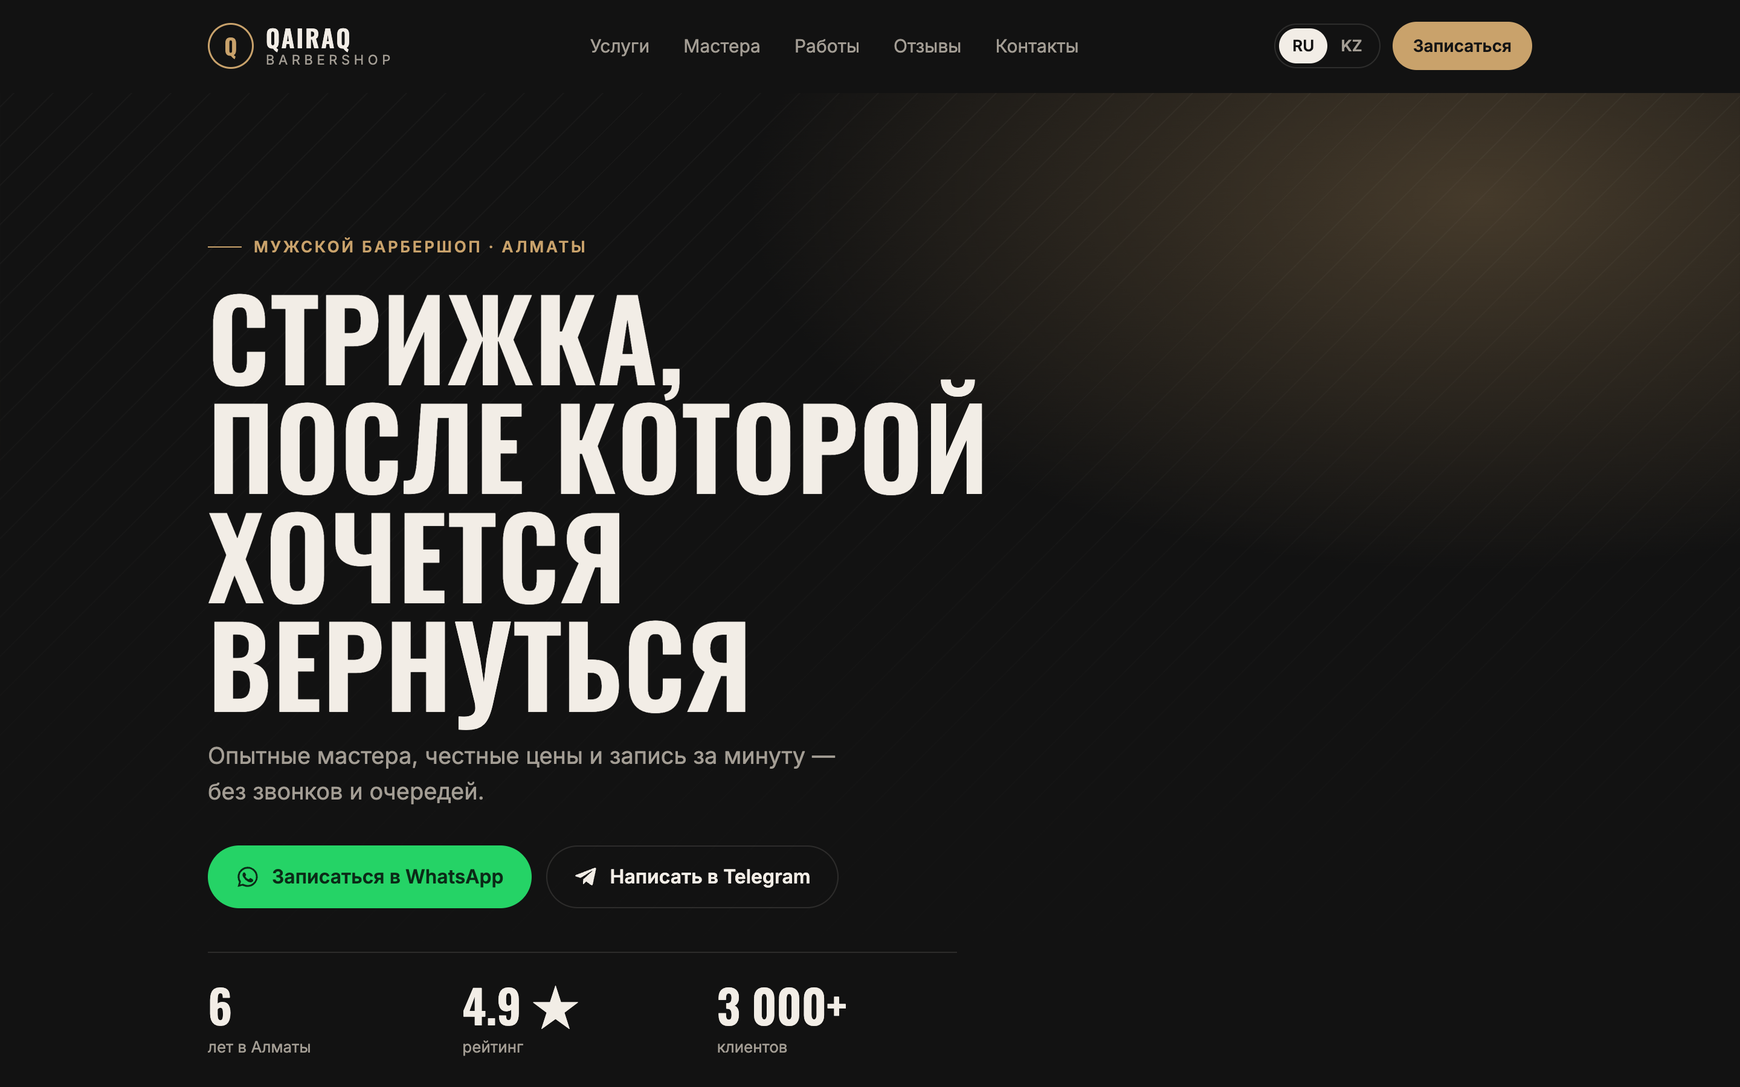
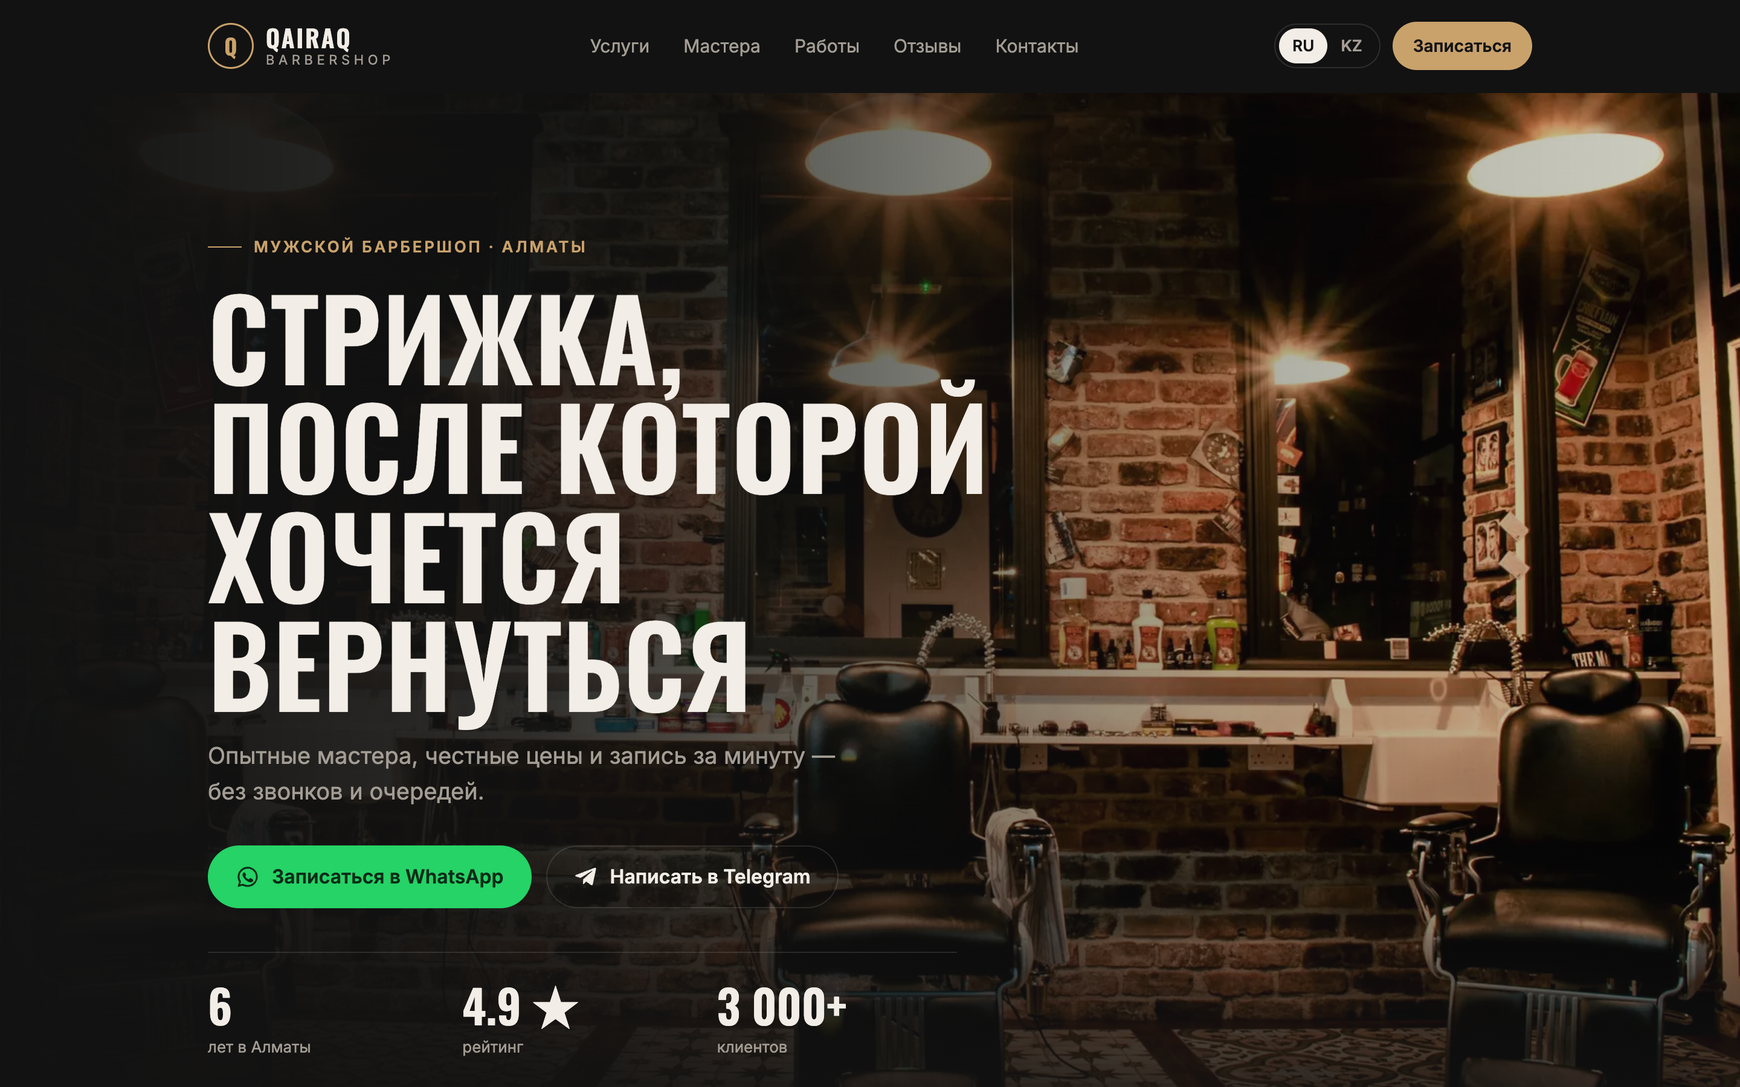
Real photos, fictional address, faster hero
- 10 photos from Unsplash/Pexels (free licenses), cropped, toned, WebP; sources in img/CREDITS.md
- RU/KZ alt text for every photo
- Hero background with desktop/mobile versions, preloaded, readability gradient
- Fictional address: ul. Zenkova 125 (street exists, house does not)
- Updated screenshots and README

Changed region(s): [[0.25, 0.0622, 1.0, 1.0], [0.4688, 0.9022, 0.5, 0.9333], [0.25, 0.3111, 0.2812, 0.3422]]

diff --git a/js/config.js b/js/config.js
@@ -10,7 +10,10 @@ window.SITE = {
     tagline: "barbershop",     // подпись под названием
     city: { ru: "Алматы", kk: "Алматы" },
     logoLetter: "Q",           // буква в круглом логотипе
-    heroPhoto: ""              // фон первого экрана, например "img/hero.jpg". Пусто — фирменный градиент
+    // Фон первого экрана: для ПК (~1920×1080) и для телефона (~800×1000).
+    // Пусто — фирменный градиент без фото.
+    heroPhoto: "img/hero.webp",
+    heroPhotoMobile: "img/hero-mobile.webp"
   },
 
   /* ---------- Цвета (любые CSS-цвета) ---------- */
@@ -30,12 +33,13 @@ window.SITE = {
     whatsapp: "77000000000",            // номер для wa.me, только цифры
     telegram: "qairaq_barber",          // username без @
     instagram: "qairaq.barber",         // username без @
-    address: { ru: "ул. Панфилова, 98", kk: "Панфилов к-сі, 98" },
+    // Адрес вымышленный: улица Зенкова существует, дома 125 на ней нет (проверено в 2ГИС)
+    address: { ru: "ул. Зенкова, 125", kk: "Зенков к-сі, 125" },
     district: { ru: "Медеуский район, вход со двора", kk: "Медеу ауданы, кіреберіс аулада" },
-    // Карта: поиск по адресу, ключ API не нужен
-    mapQuery: "Алматы, улица Панфилова 98",
+    // Карта: поиск по адресу, ключ API не нужен. Для вымышленного адреса — только улица
+    mapQuery: "улица Зенкова, Алматы",
     // Ссылка «Открыть в 2ГИС» (замените на карточку клиента в 2ГИС)
-    twoGisUrl: "https://2gis.kz/almaty/search/Панфилова%2098",
+    twoGisUrl: "https://2gis.kz/almaty/search/улица%20Зенкова",
     // Часы работы для индикатора «Открыто сейчас» (время Алматы)
     open: "10:00",
     close: "22:00"
@@ -75,26 +79,37 @@ window.SITE = {
     { name: { ru: "Арман", kk: "Арман" },
       role: { ru: "Топ-барбер · 8 лет опыта", kk: "Топ-барбер · 8 жыл тәжірибе" },
       skills: { ru: "Классика, фейды, бороды", kk: "Классика, фейд, сақал" },
-      photo: "" },
+      photo: "img/master-arman.webp",
+      alt: { ru: "Барбер Арман в рабочем фартуке", kk: "Барбер Арман жұмыс алжапқышында" } },
     { name: { ru: "Данияр", kk: "Данияр" },
       role: { ru: "Барбер · 5 лет опыта", kk: "Барбер · 5 жыл тәжірибе" },
       skills: { ru: "Текстурные стрижки, кроп", kk: "Текстуралы қию, кроп" },
-      photo: "" },
+      photo: "img/master-daniyar.webp",
+      alt: { ru: "Портрет барбера Данияра", kk: "Барбер Даниярдың портреті" } },
     { name: { ru: "Тимур", kk: "Тимур" },
       role: { ru: "Барбер · 3 года опыта", kk: "Барбер · 3 жыл тәжірибе" },
       skills: { ru: "Детские стрижки, машинка", kk: "Балалар шаш қиюы, машинка" },
-      photo: "" }
+      photo: "img/master-timur.webp",
+      alt: { ru: "Барбер Тимур с опасной бритвой", kk: "Барбер Тимур ұстара ұстап тұр" } }
   ],
 
   /* ---------- Галерея работ ----------
-     photo: путь к фото. Пусто — будет заглушка с подписью. */
+     photo: путь к фото. Пусто — будет заглушка с подписью.
+     На ПК 1-е фото — большой квадрат, 4-е и 5-е — высокие (вертикальные),
+     6-е — широкое (горизонтальное). На телефоне все ячейки квадратные. */
   gallery: [
-    { label: { ru: "Скин-фейд", kk: "Скин-фейд" }, photo: "" },
-    { label: { ru: "Кроп с текстурой", kk: "Текстуралы кроп" }, photo: "" },
-    { label: { ru: "Борода", kk: "Сақал" }, photo: "" },
-    { label: { ru: "Классика", kk: "Классика" }, photo: "" },
-    { label: { ru: "Детская", kk: "Балалар" }, photo: "" },
-    { label: { ru: "Комплекс", kk: "Кешен" }, photo: "" }
+    { label: { ru: "Скин-фейд", kk: "Скин-фейд" }, photo: "img/work-fade.webp",
+      alt: { ru: "Барбер делает фейд машинкой", kk: "Барбер машинкамен фейд жасап жатыр" } },
+    { label: { ru: "Кроп с текстурой", kk: "Текстуралы кроп" }, photo: "img/work-crop.webp",
+      alt: { ru: "Парень с текстурным кропом и фейдом", kk: "Текстуралы кроп пен фейд қиған жігіт" } },
+    { label: { ru: "Борода", kk: "Сақал" }, photo: "img/work-beard.webp",
+      alt: { ru: "Барбер подравнивает бороду ножницами", kk: "Барбер сақалды қайшымен түзетіп жатыр" } },
+    { label: { ru: "Классика", kk: "Классика" }, photo: "img/work-classic.webp",
+      alt: { ru: "Классическая мужская стрижка с пробором", kk: "Жарылымы бар классикалық ерлер шаш қиюы" } },
+    { label: { ru: "Детская", kk: "Балалар" }, photo: "img/work-kids.webp",
+      alt: { ru: "Мальчик со свежей стрижкой с рисунком", kk: "Суретті жаңа шаш қиюы бар бала" } },
+    { label: { ru: "Комплекс", kk: "Кешен" }, photo: "img/work-combo.webp",
+      alt: { ru: "Барбер оформляет бороду клиенту после стрижки", kk: "Барбер шаш қиғаннан кейін сақалды түзетіп жатыр" } }
   ],
 
   /* ---------- Отзывы ---------- */

diff --git a/css/style.css b/css/style.css
@@ -101,8 +101,21 @@ p { margin: 0; }
   mask-image: linear-gradient(to bottom, #000, transparent 85%);
   -webkit-mask-image: linear-gradient(to bottom, #000, transparent 85%);
 }
-.hero__bg.has-photo { background-size: cover; background-position: center; }
-.hero__bg.has-photo::after { background: linear-gradient(to bottom, color-mix(in srgb, var(--bg) 55%, transparent), var(--bg)); mask-image: none; -webkit-mask-image: none; }
+/* Фон-фото (подключается из config.js) + затемнение, чтобы текст читался */
+.has-hero .hero__bg { background: var(--hero-m) center / cover no-repeat, var(--bg); }
+.has-hero .hero__bg::after {
+  mask-image: none; -webkit-mask-image: none;
+  background:
+    linear-gradient(to bottom, color-mix(in srgb, var(--bg) 72%, transparent) 0%, color-mix(in srgb, var(--bg) 82%, transparent) 55%, var(--bg) 100%);
+}
+@media (min-width: 768px) {
+  .has-hero .hero__bg { background-image: var(--hero-d); background-position: center 60%; }
+  .has-hero .hero__bg::after {
+    background:
+      linear-gradient(90deg, var(--bg) 0%, color-mix(in srgb, var(--bg) 88%, transparent) 30%, color-mix(in srgb, var(--bg) 35%, transparent) 70%, color-mix(in srgb, var(--bg) 20%, transparent) 100%),
+      linear-gradient(to bottom, transparent 70%, var(--bg) 100%);
+  }
+}
 .kicker {
   display: inline-flex; align-items: center; gap: 10px;
   color: var(--accent); font-size: 13px; font-weight: 600; letter-spacing: .14em; text-transform: uppercase;

diff --git a/js/main.js b/js/main.js
@@ -80,7 +80,7 @@
     $("#mastersList").innerHTML = S.masters.map(function (m) {
       var name = tr(m.name);
       return '<article class="master">' +
-        '<div class="master__photo">' + photo(m.photo, name, "i-user") + '</div>' +
+        '<div class="master__photo">' + photo(m.photo, tr(m.alt) || name, "i-user") + '</div>' +
         '<div class="master__body"><h3>' + esc(name) + '</h3>' +
         '<p class="master__role">' + esc(tr(m.role)) + '</p>' +
         '<p class="master__skills">' + esc(tr(m.skills)) + '</p>' +
@@ -94,7 +94,7 @@
     $("#galleryList").innerHTML = S.gallery.map(function (g, i) {
       var label = tr(g.label);
       return '<figure class="gallery__item g' + (i % 6) + '">' +
-        photo(g.photo, label, "i-scissors", t("photoSoon")) +
+        photo(g.photo, tr(g.alt) || label, "i-scissors", t("photoSoon")) +
         '<figcaption>' + esc(label) + '</figcaption></figure>';
     }).join("");
   }
@@ -161,11 +161,6 @@
   var onScroll = function () { header.classList.toggle("is-scrolled", window.scrollY > 10); };
   window.addEventListener("scroll", onScroll, { passive: true });
 
-  if (S.brand.heroPhoto) {
-    var bg = $(".hero__bg");
-    bg.style.backgroundImage = "url('" + S.brand.heroPhoto + "')";
-    bg.classList.add("has-photo");
-  }
-  document.title =S.brand.name + " " + S.brand.tagline + " — " + tr(S.brand.city);
+  document.title = S.brand.name + " " + S.brand.tagline + " — " + tr(S.brand.city);
   applyLang(); onScroll(); initMap();
 })();

diff --git a/index.html b/index.html
@@ -15,6 +15,22 @@
   <link href="https://fonts.googleapis.com/css2?family=Oswald:wght@500;600&family=Inter:wght@400;500;600&display=swap&subset=cyrillic-ext" rel="stylesheet">
   <link rel="stylesheet" href="css/style.css">
   <script src="js/config.js"></script>
+  <script>
+    /* Фон первого экрана: подключаем сразу, чтобы браузер начал грузить его как можно раньше */
+    (function (b) {
+      var d = b.heroPhoto, m = b.heroPhotoMobile || d, r = document.documentElement;
+      if (!d) return;
+      r.classList.add("has-hero");
+      var abs = function (p) { return "url('" + new URL(p, location.href).href + "')"; };
+      r.style.setProperty("--hero-d", abs(d));
+      r.style.setProperty("--hero-m", abs(m));
+      [[m, "(max-width: 767px)"], [d, "(min-width: 768px)"]].forEach(function (x) {
+        var l = document.createElement("link");
+        l.rel = "preload"; l.as = "image"; l.href = x[0]; l.media = x[1]; l.fetchPriority = "high";
+        document.head.appendChild(l);
+      });
+    })(window.SITE.brand);
+  </script>
 </head>
 <body>
 

diff --git a/README.md b/README.md
@@ -1,12 +1,13 @@
 # QAIRAQ barbershop — демо-лендинг
 
-Одностраничный сайт барбершопа в Алматы для портфолио. Бизнес вымышленный.
+Одностраничный сайт барбершопа в Алматы для портфолио. Бизнес и адрес вымышленные,
+фото взяты с Unsplash и Pexels по их бесплатным лицензиям (источники — в [img/CREDITS.md](img/CREDITS.md)).
 
 **Демо:** https://1ne2wo6ix.github.io/qairaq-barbershop/ · на казахском: https://1ne2wo6ix.github.io/qairaq-barbershop/?lang=kk
 
 ![Телефон](screenshots/mobile-hero.png)
 
-- Чистый HTML + CSS + немного JS, без фреймворков и сборки. Страница весит около 55 КБ (без шрифтов).
+- Чистый HTML + CSS + немного JS, без фреймворков и сборки. Код страницы весит около 55 КБ, все 11 фото вместе — около 650 КБ.
 - Вёрстка сначала под телефон; на ПК раскладка своя.
 - Языки: русский и казахский (переключатель RU/KZ в шапке, выбор запоминается).
   Ссылка сразу на казахском: `.../?lang=kk`.
@@ -51,10 +52,13 @@ barbershop/
 **5. Фото (10 мин).** Положите фото в `img/` и пропишите пути:
 - мастера: `masters[].photo`, например `"img/arman.jpg"`. Лучше вертикальные, примерно 800×840;
 - галерея: `gallery[].photo`, квадратные, примерно 800×800;
-- фон первого экрана (по желанию): `brand.heroPhoto`, около 1920×1080, тёмное фото подходит лучше всего.
+- фон первого экрана: `brand.heroPhoto` (ПК, около 1920×1080) и `brand.heroPhotoMobile` (телефон, около 800×1000).
+  Лучше всего подходит тёмное фото со «спокойной» левой частью: там будет заголовок. Затемнение под текст добавляется само;
+- у каждого фото мастера и галереи заполните `alt` (на RU и KZ): это подпись для поисковиков и экранных дикторов.
 
-Пока поле пустое, вместо фото показывается аккуратная заглушка.
-Перед загрузкой сожмите фото до 150–250 КБ (например, в squoosh.app), тогда сайт будет открываться быстро.
+Пока поле `photo` пустое, вместо фото показывается аккуратная заглушка.
+Перед загрузкой сожмите фото до 150–250 КБ в WebP (например, в squoosh.app или командой `cwebp -q 80`), тогда сайт будет открываться быстро.
+Если берёте фото со стоков, запишите источники в `img/CREDITS.md`.
 
 **6. Тексты и отзывы (5 мин).** Тексты интерфейса лежат в `i18n.ru` и `i18n.kk`, отзывы в `reviews`,
 рейтинг в `rating`, цифры первого экрана в `stats`. Возьмите реальные отзывы клиента из 2ГИС или Google.

diff --git a/img/CREDITS.md b/img/CREDITS.md
@@ -1,0 +1,24 @@
+# Источники фото
+
+Все фото взяты с Unsplash и Pexels 12.11.2026.
+
+- **Unsplash License** (https://unsplash.com/license) разрешает бесплатное, в том числе коммерческое, использование без указания автора. Фото Unsplash+ не использовались: у каждого фото на его странице проверено, что лицензия именно Unsplash License.
+- **Pexels License** (https://www.pexels.com/license/) разрешает то же самое.
+
+Все фото обрезаны, слегка тонированы в одну тёплую гамму и сжаты в WebP. Лицензии это разрешают.
+
+| Файл | Где на сайте | Источник | Автор |
+|---|---|---|---|
+| `hero.webp`, `hero-mobile.webp` | Фон первого экрана | [Unsplash](https://unsplash.com/photos/black-leather-barber-chair-near-brown-brick-wall-EW_rqoSdDes) | [@onatecan](https://unsplash.com/@onatecan) |
+| `master-arman.webp` | Мастер Арман | [Pexels](https://www.pexels.com/photo/a-barber-with-tattoos-8552627/) | [@ej-agumbay-698816](https://www.pexels.com/@ej-agumbay-698816/) |
+| `master-daniyar.webp` | Мастер Данияр | [Unsplash](https://unsplash.com/photos/man-in-black-crew-neck-shirt-hr_feH2URs0) | [@nartan](https://unsplash.com/@nartan) |
+| `master-timur.webp` | Мастер Тимур | [Unsplash](https://unsplash.com/photos/man-in-black-polo-shirt-holding-white-smartphone-mjLq6EL8260) | [@raive](https://unsplash.com/@raive) |
+| `work-fade.webp` | Галерея: скин-фейд | [Pexels](https://www.pexels.com/photo/man-holds-black-hair-shaver-3037244/) | [@mostafameraji](https://www.pexels.com/@mostafameraji/) |
+| `work-crop.webp` | Галерея: кроп с текстурой | [Unsplash](https://unsplash.com/photos/a-man-looking-at-something-Z9LaTWt2Xac) | [@quan12355](https://unsplash.com/@quan12355) |
+| `work-beard.webp` | Галерея: борода | [Unsplash](https://unsplash.com/photos/barber-trimming-beard-in-salon-4k60yfGy7fU) | [@mrshave](https://unsplash.com/@mrshave) |
+| `work-classic.webp` | Галерея: классика | [Unsplash](https://unsplash.com/photos/a-man-getting-a-haircut-at-a-barber-shop-z0Cyh9nGLFY) | [@andrereispt](https://unsplash.com/@andrereispt) |
+| `work-kids.webp` | Галерея: детская | [Pexels](https://www.pexels.com/photo/photo-of-a-boy-at-a-barbershop-16098673/) | [@toni-guy-pondicherry-404397363](https://www.pexels.com/@toni-guy-pondicherry-404397363/) |
+| `work-combo.webp` | Галерея: комплекс | [Unsplash](https://unsplash.com/photos/a-man-getting-his-hair-cut-at-a-barber-shop-t34TLxxmwws) | [@xbmpro](https://unsplash.com/@xbmpro) |
+
+Люди на фото — модели фотографов, а не мастера и клиенты вымышленного барбершопа QAIRAQ.
+Для реального клиента замените фото на снимки его мастеров и работ.
